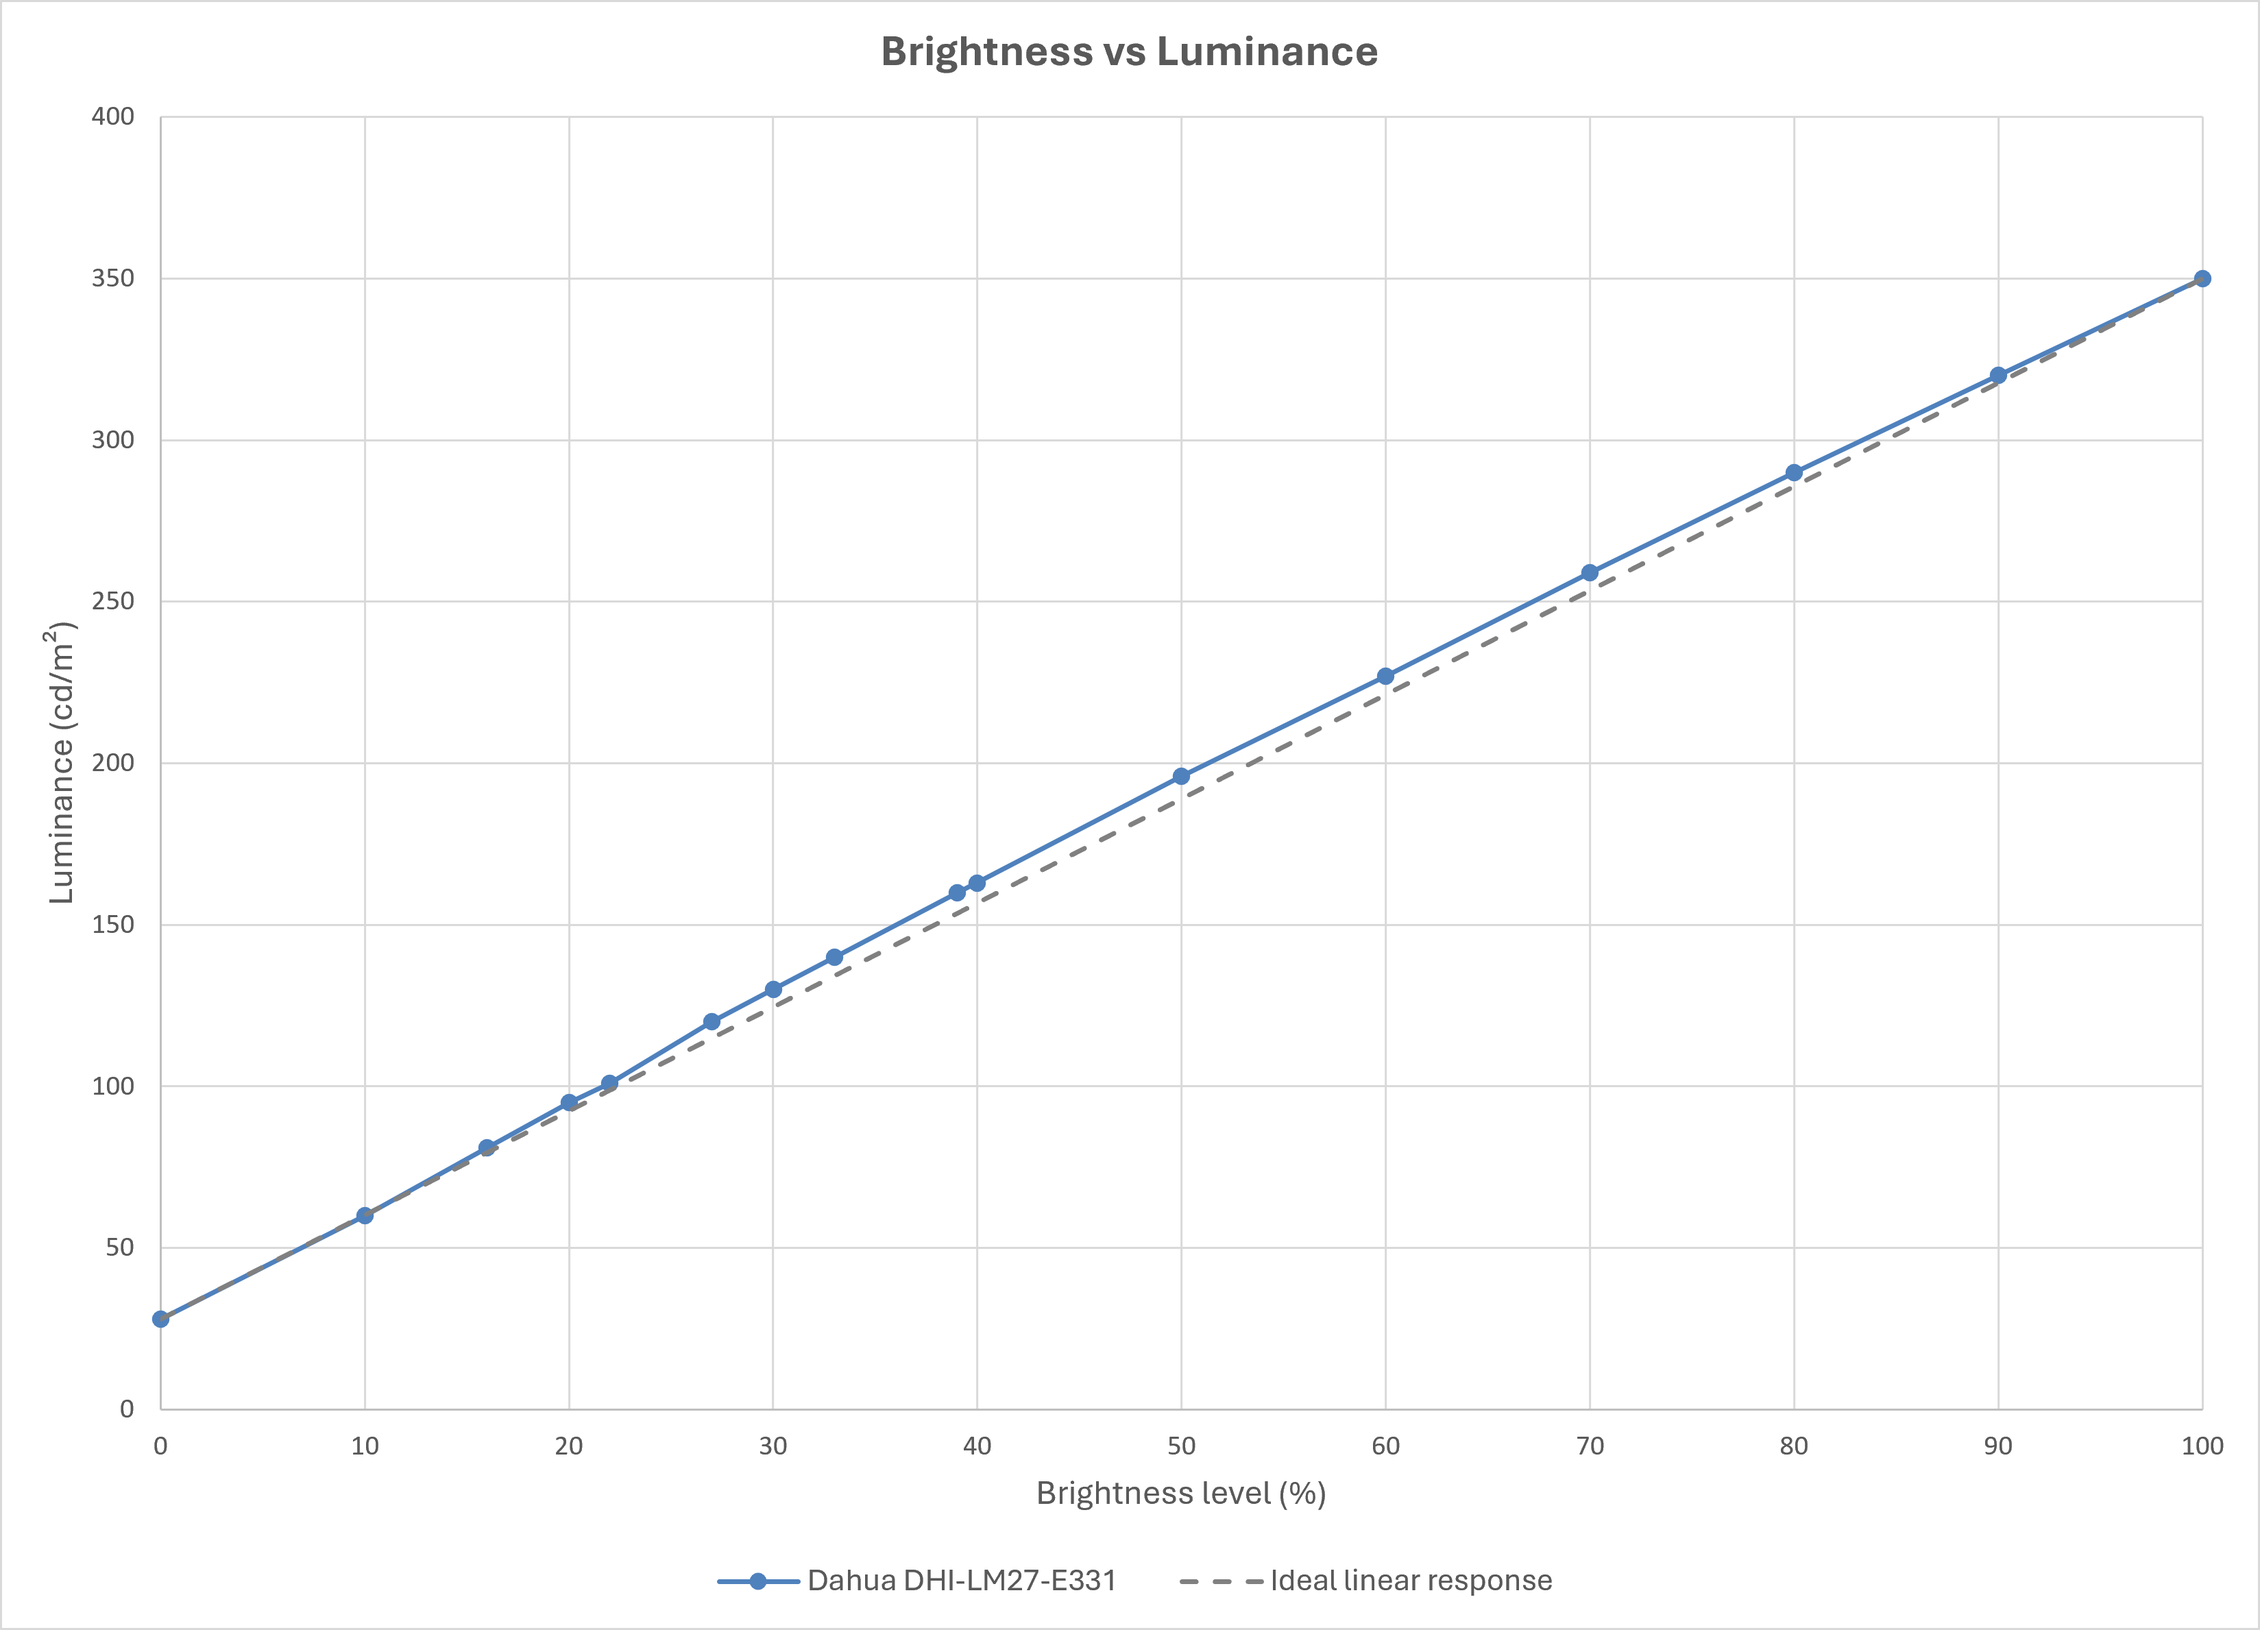
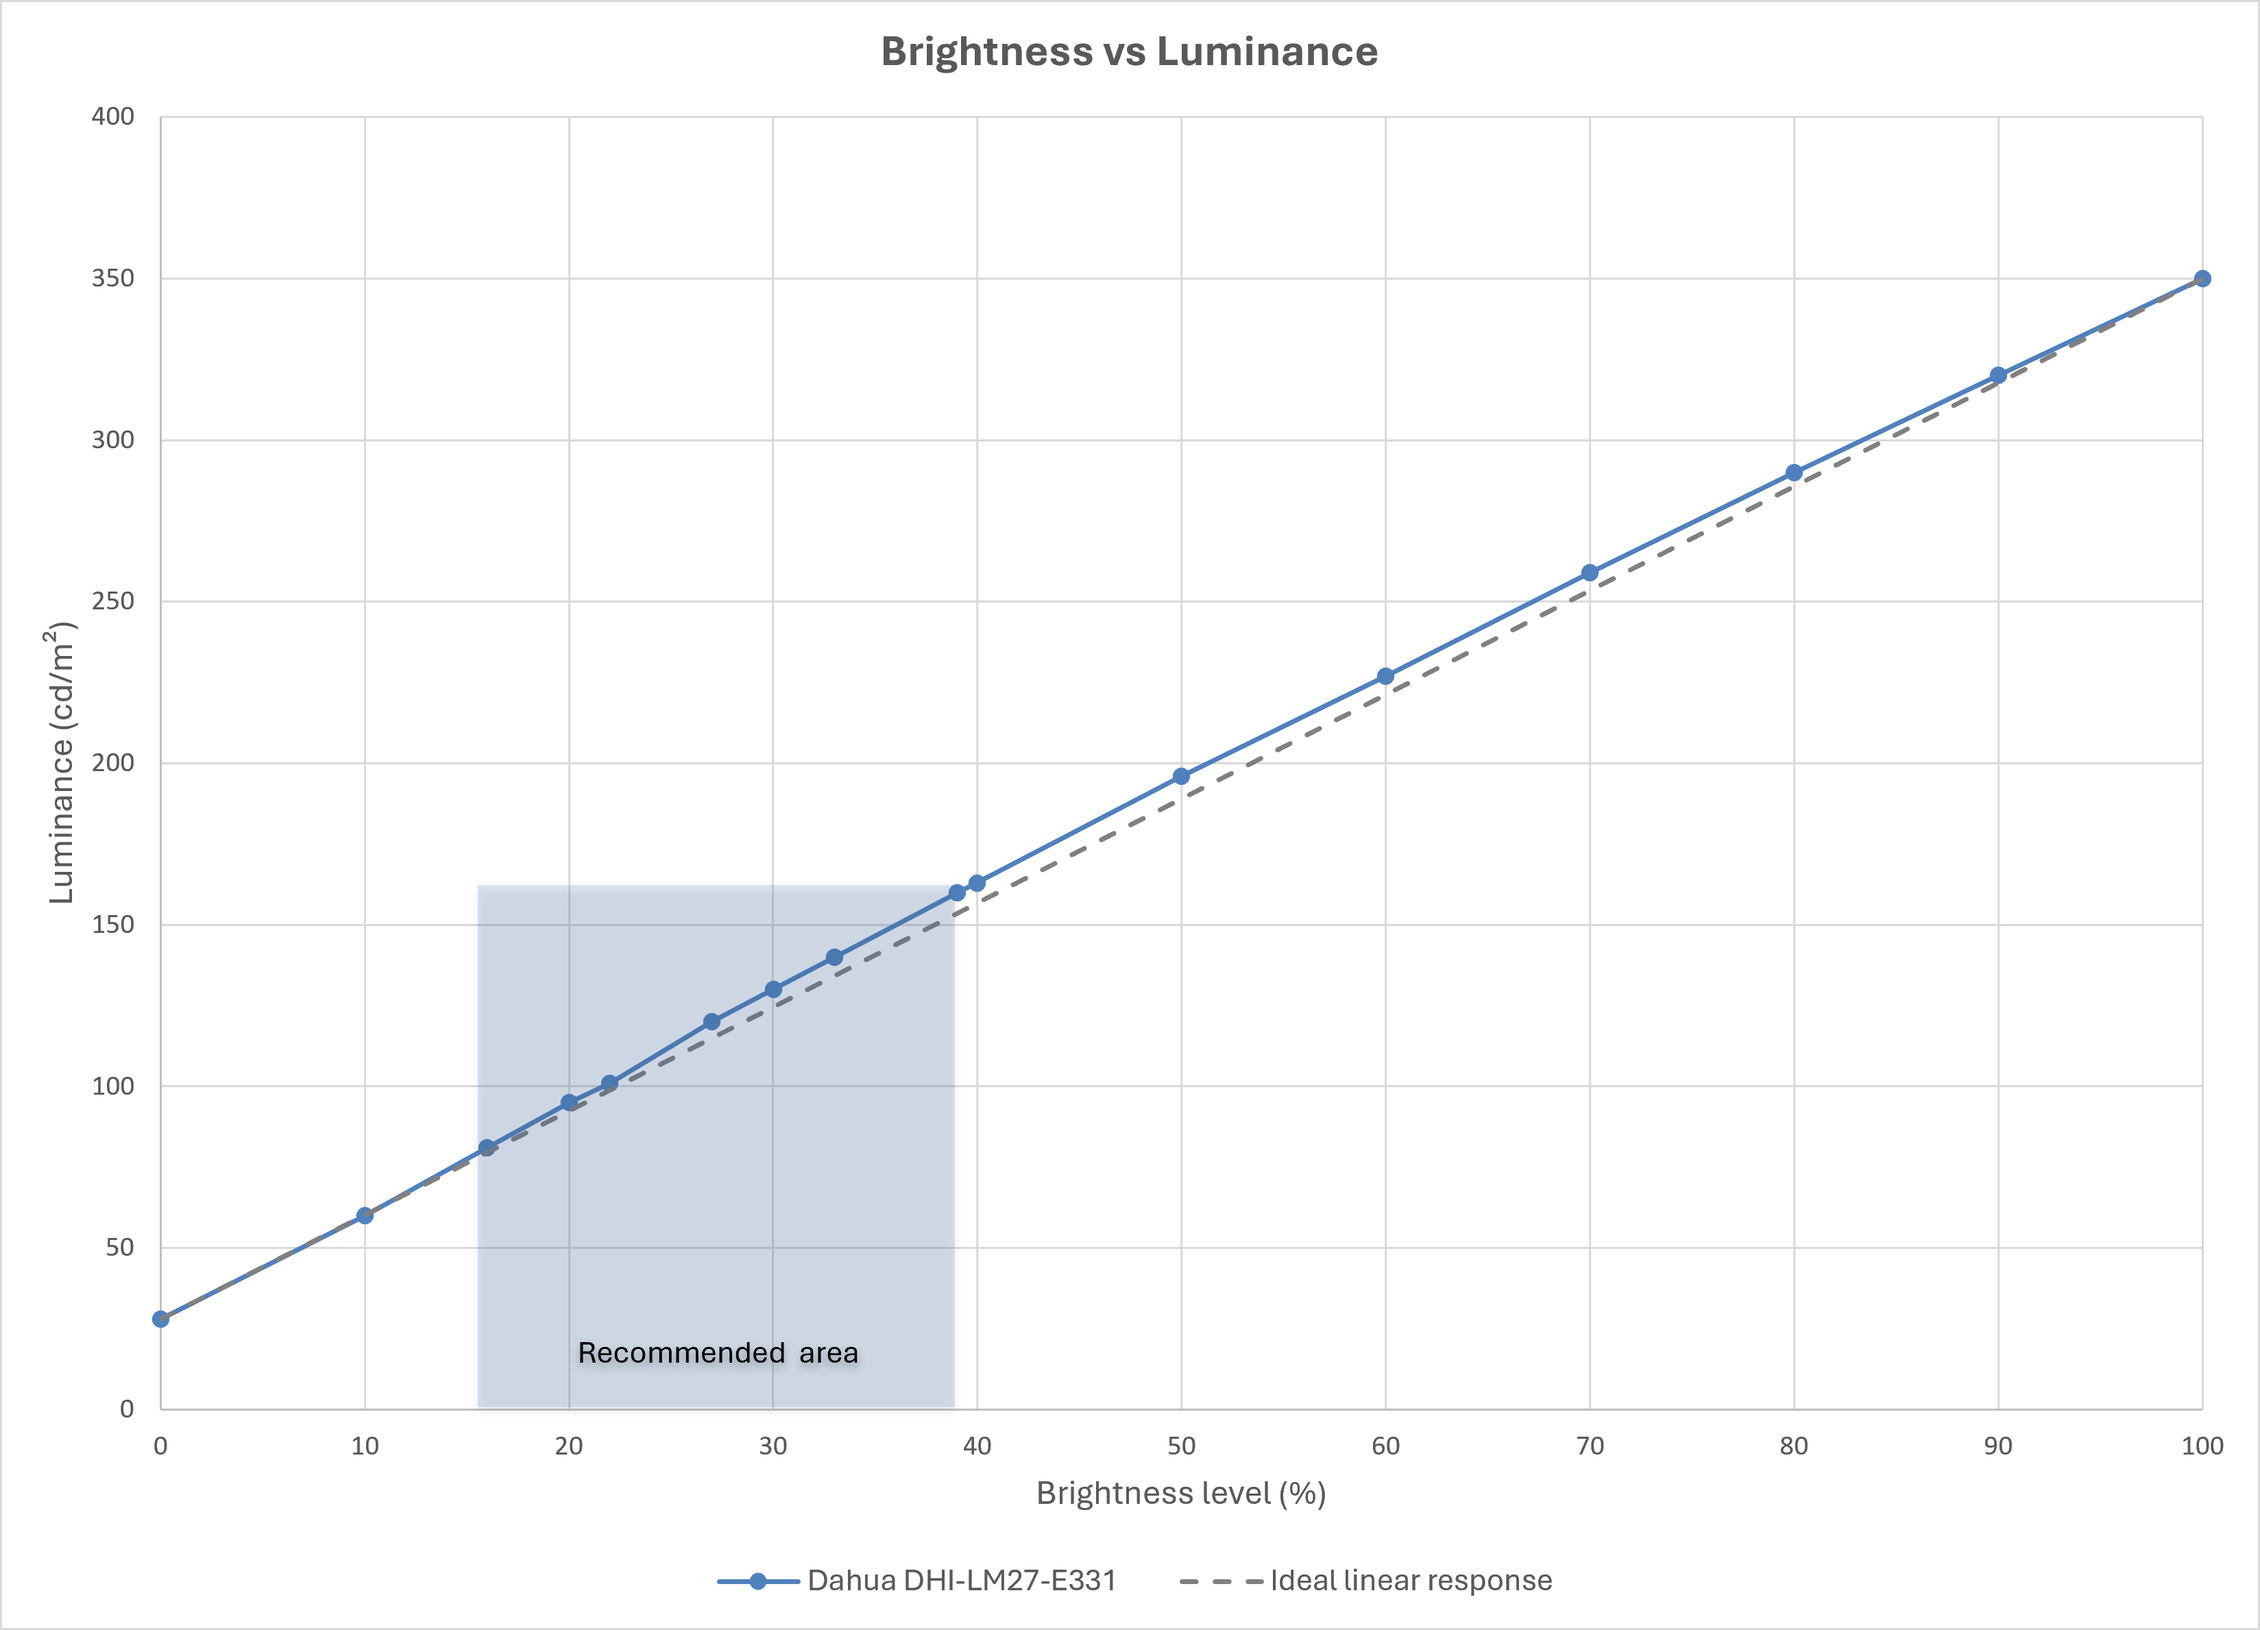
Monitors: more update Dahua LM27-E331

Changed region(s): [[0.1874, 0.529, 0.4374, 0.8713]]

diff --git a/monitors/dahua-lm27-e331/README.md b/monitors/dahua-lm27-e331/README.md
@@ -46,12 +46,12 @@ Official product page:  <https://www.dahuasecurity.com/mena/products/All-Product
 |      Color gamut       | Declared/known<br>coverage | Calibrated and measured<br>coverage |
 | :--------------------: | :------------------------: | :---------------------------------: |
 | Wide color gamut (WDC) |     :heavy_check_mark:     |         :heavy_check_mark:          |
-|          sRGB          |           ~ 99%            |               99.95%                |
+|          sRGB          |           ~ 99%            |               99.92%                |
 |          NTSC          |           ~ 85%            |                  -                  |
-|         DCI-P3         |             -              |               91.15%                |
-|       Adobe-RGB        |             -              |               81.91%                |
+|         DCI-P3         |             -              |               90.38%                |
+|       Adobe-RGB        |             -              |               80.97%                |
    
-**Color depth:** 8 bit + FRC 
+**Color depth:** 8 bit  
 
 <p align="right">
   <a href="#table-of-contents">⬆ Toc</a>
@@ -64,24 +64,24 @@ Calibration objective: **Visual comfort with reduced eye strain during prolonged
 ### Environment and targets
 
 **Calibration environment**
-| Parameter                  | Value                                 |
-| -------------------------- | ------------------------------------- |
-| Calibration date           | 2026-10-30 (YYYY-MM-DD)               |
-| Instrument                 | Spyder X                              |
-| Software                   | DisplayCal 3.8.9.3<br>ArgyllCMS 3.5.0 |
-| White point setup software | HCFR 2019 (Spyder X version)          |
-
+| Parameter                        | Value                                 |
+| -------------------------------- | ------------------------------------- |
+| Calibration date                 | 2026-10-30 (YYYY-MM-DD)               |
+| Instrument                       | Spyder X                              |
+| White point setup software       | HCFR 2019 (Spyder X version)          |
+| Calibration & profiling Software | DisplayCal 3.8.9.3<br>ArgyllCMS 3.5.0 |
 
 **Calibration target**
 | Parameter          | Value        |
 | ------------------ | ------------ |
+| Target usage       | Office + web |
 | Target white point | D65 (6500 K) |
 | Target gamma       | 2.2          |
 | Target luminance   | 120 cd/m²    |
 
 ### OSD settings  
 
-The white point D65 set using a 10% to 100% grayscale
+The white point D65 is set using a 10% to 100% grayscale
 
 - Display menu:  
     - Brightness: 22  
@@ -124,7 +124,7 @@ The white point D65 set using a 10% to 100% grayscale
 
 ## Brightness response curve  
 
-Pre-calibration measurement with [DisplayCal interactive mode](https://displaycal.net/#settings_calibration)  
+Post-calibration measurement with [ArgyllCMS/spotread](https://www.argyllcms.com/doc/spotread.html)
 
 > [!NOTE]
 > Recommended luminance levels:
@@ -139,12 +139,12 @@ Pre-calibration measurement with [DisplayCal interactive mode](https://displayca
 | OSD Brightness (%) | Luminance (cd/m²) |
 | :----------------: | :---------------: |
 |         0          |        28         |
-|         10          |        60         |
-|         -> 16 <-        |        -> 81 <-         |
+|         10         |        60         |
+|      -> 16 <-      |     -> 81 <-      |
 |         20         |        95         |
-|      -> 22 <-      |     -> 101 <-      |
+|      -> 22 <-      |     -> 101 <-     |
 |      -> 27 <-      |     -> 120 <-     |
-|      -> 30 <-      |      130      |
+|         30         |        130        |
 |      -> 33 <-      |     -> 140 <-     |
 |      -> 39 <-      |     -> 160 <-     |
 |         40         |        163        |
